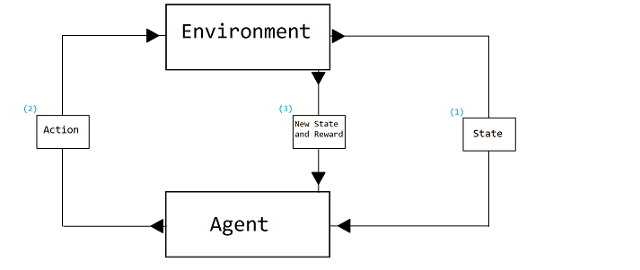
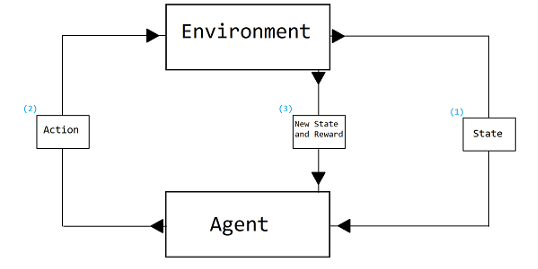
Fixed image centering

Changed region(s): [[0.0297, 0.0, 0.9814, 0.9814]]

diff --git a/src/routes/landingPage/CarouselComponent.jsx b/src/routes/landingPage/CarouselComponent.jsx
@@ -17,8 +17,8 @@ const CarouselComponent = () => {
 		<Carousel className='text-cgray px-3 sm:px-6 md:px-12 lg:px-20' breakPoints={breakpoint} itemPadding={[10]}>
 
 			<div className="bg-white p-3 rounded-lg grid grid-rows-2">
-				<CloudLogo className="text-cdpurple w-2/4 pb-2" />
-				<div className=""> 
+				<div className='flex items-center justify-center border-b border-dotted'><CloudLogo className="text-cdpurple w-2/4 pb-2" /></div>
+				<div className="flex items-center justify-center flex-col"> 
 					<div className="text-cdpurple text-2xl text-center">MusicSync</div>
 					<div className="flex flex-col items-center">
 						<span className="text-center">Téléchargement et synchronisation de playlist SoundCloud et YouTube.</span>
@@ -31,8 +31,8 @@ const CarouselComponent = () => {
 				</div>
 			</div>
 			<div className="bg-white p-3 rounded-lg grid grid-rows-2">
-				<img src={RL} alt="The web project" className="pb-2 w-full" />
-				<div className=""> 
+				<div className="flex items-center justify-center border-b border-dotted"><img src={RL} alt="The web project" className="pb-2 w-full"/></div>
+				<div className="flex items-center justify-center flex-col"> 
 					<div className="text-cdpurple text-2xl text-center">Apprentissage par renforcement</div>
 					<div className="flex flex-col items-center">
 						<span className="text-center">Compromis observation-action en apprentissage par renforcement</span>
@@ -46,8 +46,8 @@ const CarouselComponent = () => {
 			</div>
 
 			<div className="bg-white p-3 rounded-lg grid grid-rows-2">
-				<img src={monte_carlo_pi} alt="The web project" className="pb-2 w-full" />
-				<div className=""> 
+				<div className='flex items-center justify-center border-b border-dotted'><img src={monte_carlo_pi} alt="The web project" className="pb-2 w-full" /></div>
+				<div className="flex items-center justify-center flex-col"> 
 					<div className="text-cdpurple text-2xl text-center">Visualisation de la méthode Monte-Carlos pour estimer Pi</div>
 					<div className="flex flex-col items-center">
 						<div className="flex flex-wrap justify-center mb-3">
@@ -60,8 +60,8 @@ const CarouselComponent = () => {
 			</div>
 
 			<div className="bg-white p-3 rounded-lg grid grid-rows-2">
-				<img src={chili} alt="The web project" className="pb-2 w-full" />
-				<div className=""> 
+				<div className='flex items-center justify-center border-b border-dotted'><img src={chili} alt="The web project" className="pb-2 w-full" /></div>
+				<div className="flex items-center justify-center flex-col"> 
 					<div className="text-cdpurple text-2xl text-center">Recipe Chooser</div>
 					<div className="flex flex-col items-center">
 						<span className="text-center">Proposition de recettes à partir d'une liste d'ingrédients disponibles. Et autocomplétion des ingrédients durant la saisie. J'aimerai beaucoup pousser ce projet dans le futur !</span>
